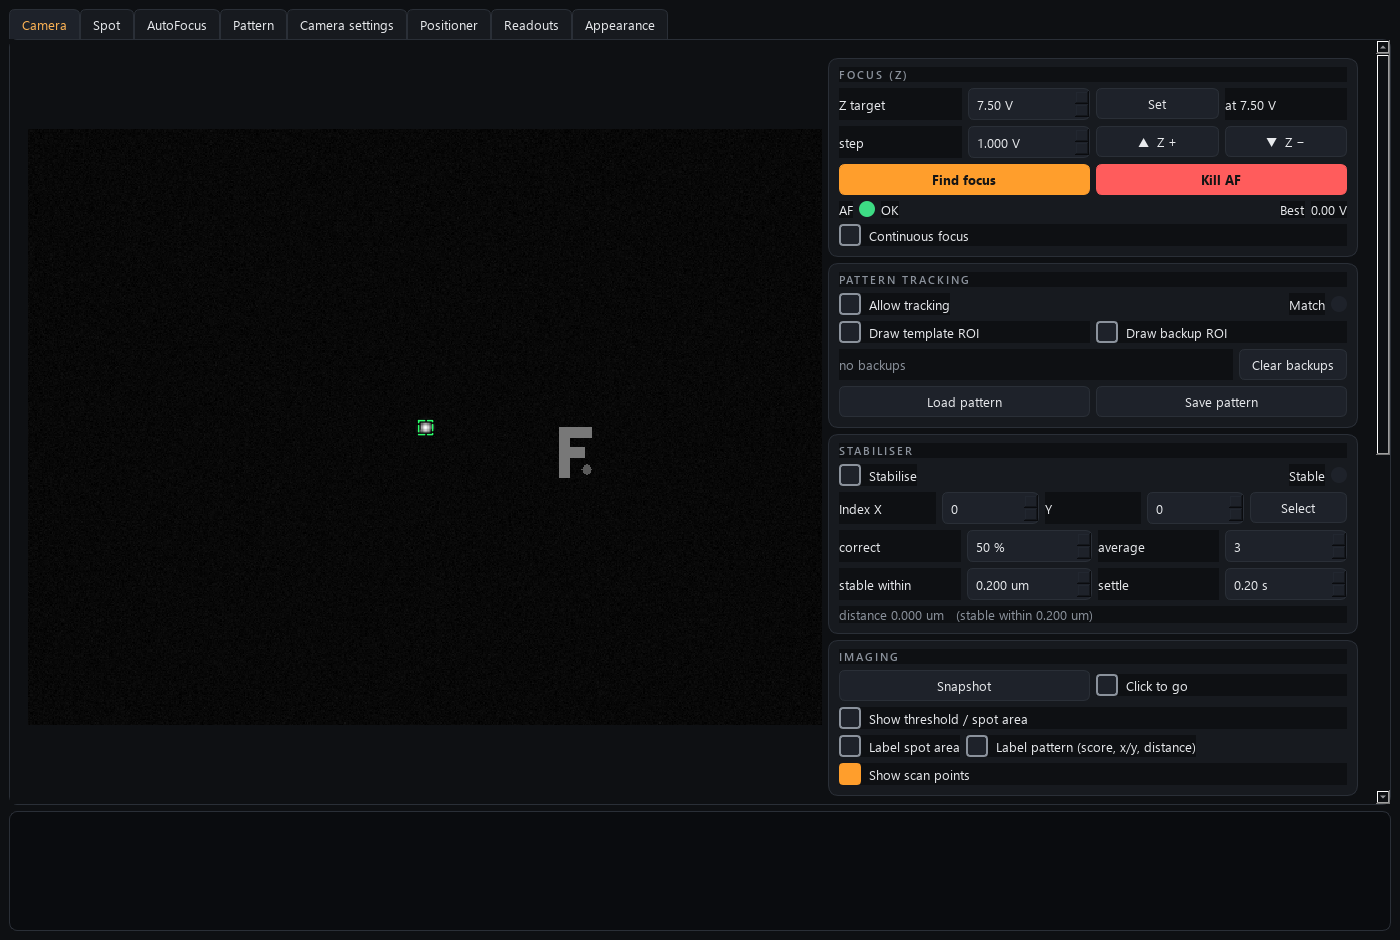
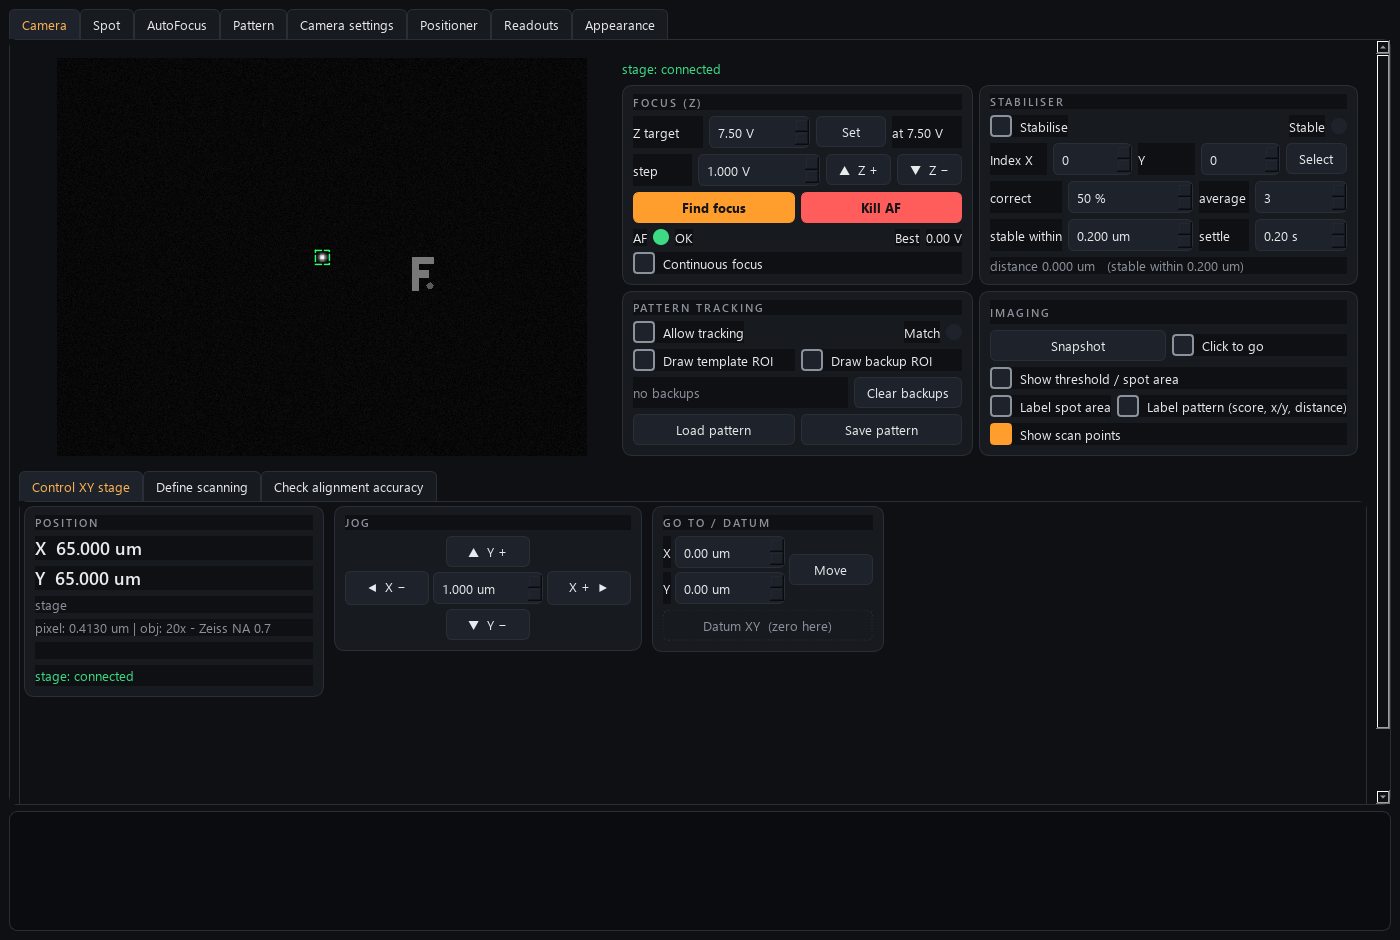
camera: control cards in two columns, compact scan form -- Define scanning fits
The four control cards stood in one ~800 px column beside the image, which
pushed the bottom tabs below the screen: defining the scan array needed
scrolling. Now the cards sit in two columns (the image gives up width and
keeps its aspect), and the Scanning form lays its fields out four pairs per
row. Maximised on a 2048x1152 screen the whole tab, Define scanning included,
fits without scrolling.

diff --git a/camera-control/src/camera/apps/gui.py b/camera-control/src/camera/apps/gui.py
@@ -104,6 +104,9 @@ def _widget_for_field(name: str, value):
 # --------------------------------------------------------------------------- #
 # main window
 # --------------------------------------------------------------------------- #
+COMPACT_COLS = 4          # label/field pairs per row in a compact settings form
+
+
 def _scrolled(widget: QWidget) -> QScrollArea:
     """Wrap a tab page so it scrolls instead of forcing the window taller."""
     area = QScrollArea()
@@ -183,9 +186,13 @@ class MainWindow(QMainWindow):
 
     def _camera_tab(self) -> QWidget:
         w = QWidget(); lay = QHBoxLayout(w)
-        lay.addWidget(self.view, 3)
-        right = QVBoxLayout(); lay.addLayout(right, 2)
-        right.addWidget(self._stage_bar())
+        # The controls sit in TWO columns beside the image, not one. In one
+        # column they were ~800 px tall and pushed the bottom tabs ("Define
+        # scanning", ...) below the screen, so the tab had to be scrolled to
+        # reach them (Lukas, 2026-09-25). Two columns halve that height; the
+        # image gives up the width, and keeps its aspect as it shrinks.
+        lay.addWidget(self.view, 4)
+        cards: list[QWidget] = []         # Focus, Pattern, Stabiliser, Imaging
 
         # Focus / Z card
         f, l = _card("Focus (Z)")
@@ -231,7 +238,7 @@ class MainWindow(QMainWindow):
         self.chk_cont = QCheckBox("Continuous focus")
         self.chk_cont.toggled.connect(lambda v: self.ctrl.set_continuous_focus(v))
         l.addWidget(self.chk_cont)
-        right.addWidget(f)
+        cards.append(f)
 
         # Pattern / tracking card
         f, l = _card("Pattern tracking")
@@ -257,7 +264,7 @@ class MainWindow(QMainWindow):
         b_load = QPushButton("Load pattern"); b_load.clicked.connect(self._load_pattern)
         b_save = QPushButton("Save pattern"); b_save.clicked.connect(self._save_pattern)
         r.addWidget(b_load); r.addWidget(b_save); l.addLayout(r)
-        right.addWidget(f)
+        cards.append(f)
 
         # Stabiliser card
         f, l = _card("Stabiliser")
@@ -308,7 +315,7 @@ class MainWindow(QMainWindow):
         self._stab_timer.timeout.connect(self._apply_stabiliser)
         for w_ in (self.stab_gain, self.stab_frames, self.stab_radius, self.stab_settle):
             w_.valueChanged.connect(lambda _v: self._stab_timer.start())
-        right.addWidget(f)
+        cards.append(f)
 
         # Imaging card
         f, l = _card("Imaging")
@@ -332,8 +339,17 @@ class MainWindow(QMainWindow):
                                    "shown or not")
         self.chk_points.toggled.connect(self.view.set_show_scan_points)
         l.addWidget(self.chk_points)
-        right.addWidget(f)
-        right.addStretch(1)
+        cards.append(f)
+        right_w = QWidget(); grid = QGridLayout(right_w)
+        grid.setContentsMargins(0, 0, 0, 0)
+        grid.addWidget(self._stage_bar(), 0, 0, 1, 2)
+        # column 1: what you do to the SAMPLE's image (focus, pattern);
+        # column 2: what runs on it (stabiliser) and what is drawn (imaging).
+        for (r, c), card in zip(((1, 0), (2, 0), (1, 1), (2, 1)), cards):
+            grid.addWidget(card, r, c)
+        grid.setRowStretch(3, 1)
+        grid.setColumnStretch(0, 1); grid.setColumnStretch(1, 1)
+        lay.addWidget(right_w, 5)
 
         # bottom sub-tabs
         sub = QTabWidget()
@@ -341,7 +357,7 @@ class MainWindow(QMainWindow):
         sub.addTab(self._scanning_subtab(), "Define scanning")
         sub.addTab(self._accuracy_subtab(), "Check alignment accuracy")
         outer = QWidget(); ov = QVBoxLayout(outer)
-        ov.addWidget(w, 3); ov.addWidget(sub, 1)
+        ov.addWidget(w, 3); ov.addWidget(sub, 2)
         return outer
 
     def _scanning_subtab(self) -> QWidget:
@@ -695,8 +711,17 @@ class MainWindow(QMainWindow):
         for gname, obj in groups:
             f, l = _card(gname)
             form = QFormLayout()
+            # compact: label/field pairs in COMPACT_COLS columns instead of one
+            # long list, so a form under the live view (Define scanning) fits
+            # without scrolling. Row-major in field order, which keeps the x/y
+            # pairs (points_x|points_y, dx_um|dy_um, ...) side by side.
+            grid = QGridLayout() if compact else None
+            if grid is not None:
+                grid.setHorizontalSpacing(10)
+                for c in range(COMPACT_COLS):
+                    grid.setColumnStretch(2 * c + 1, 1)
             getters = {}
-            for fld in fields(obj):
+            for i, fld in enumerate(fields(obj)):
                 if fld.name == "objective_name":
                     widget = QComboBox()
                     widget.addItems(self._objective_names)
@@ -712,7 +737,12 @@ class MainWindow(QMainWindow):
                 if fld.name == "xy_unit":
                     # a display choice: takes effect at once, no Apply needed
                     widget.currentTextChanged.connect(self._on_xy_unit_changed)
-                form.addRow(fld.name, widget)
+                if grid is not None:
+                    r, c = divmod(i, COMPACT_COLS)
+                    grid.addWidget(QLabel(fld.name), r, 2 * c)
+                    grid.addWidget(widget, r, 2 * c + 1)
+                else:
+                    form.addRow(fld.name, widget)
                 getters[fld.name] = getter
                 self._form_widgets.setdefault(gname.lower(), {})[fld.name] = widget
                 if fld.name == "pixel_size_x_um":
@@ -729,7 +759,7 @@ class MainWindow(QMainWindow):
                 l.addWidget(self.lab_limits_note)
                 self._limit_rows = {k: v for k, v in self._form_widgets["limits"].items()
                                     if k != "enforce"}
-            l.addLayout(form)
+            l.addLayout(grid if grid is not None else form)
             outer.addWidget(f)
         b = QPushButton("Apply settings"); b.setObjectName("primary")
         b.clicked.connect(lambda _=False, gs=groups: self._apply_settings(gs))
